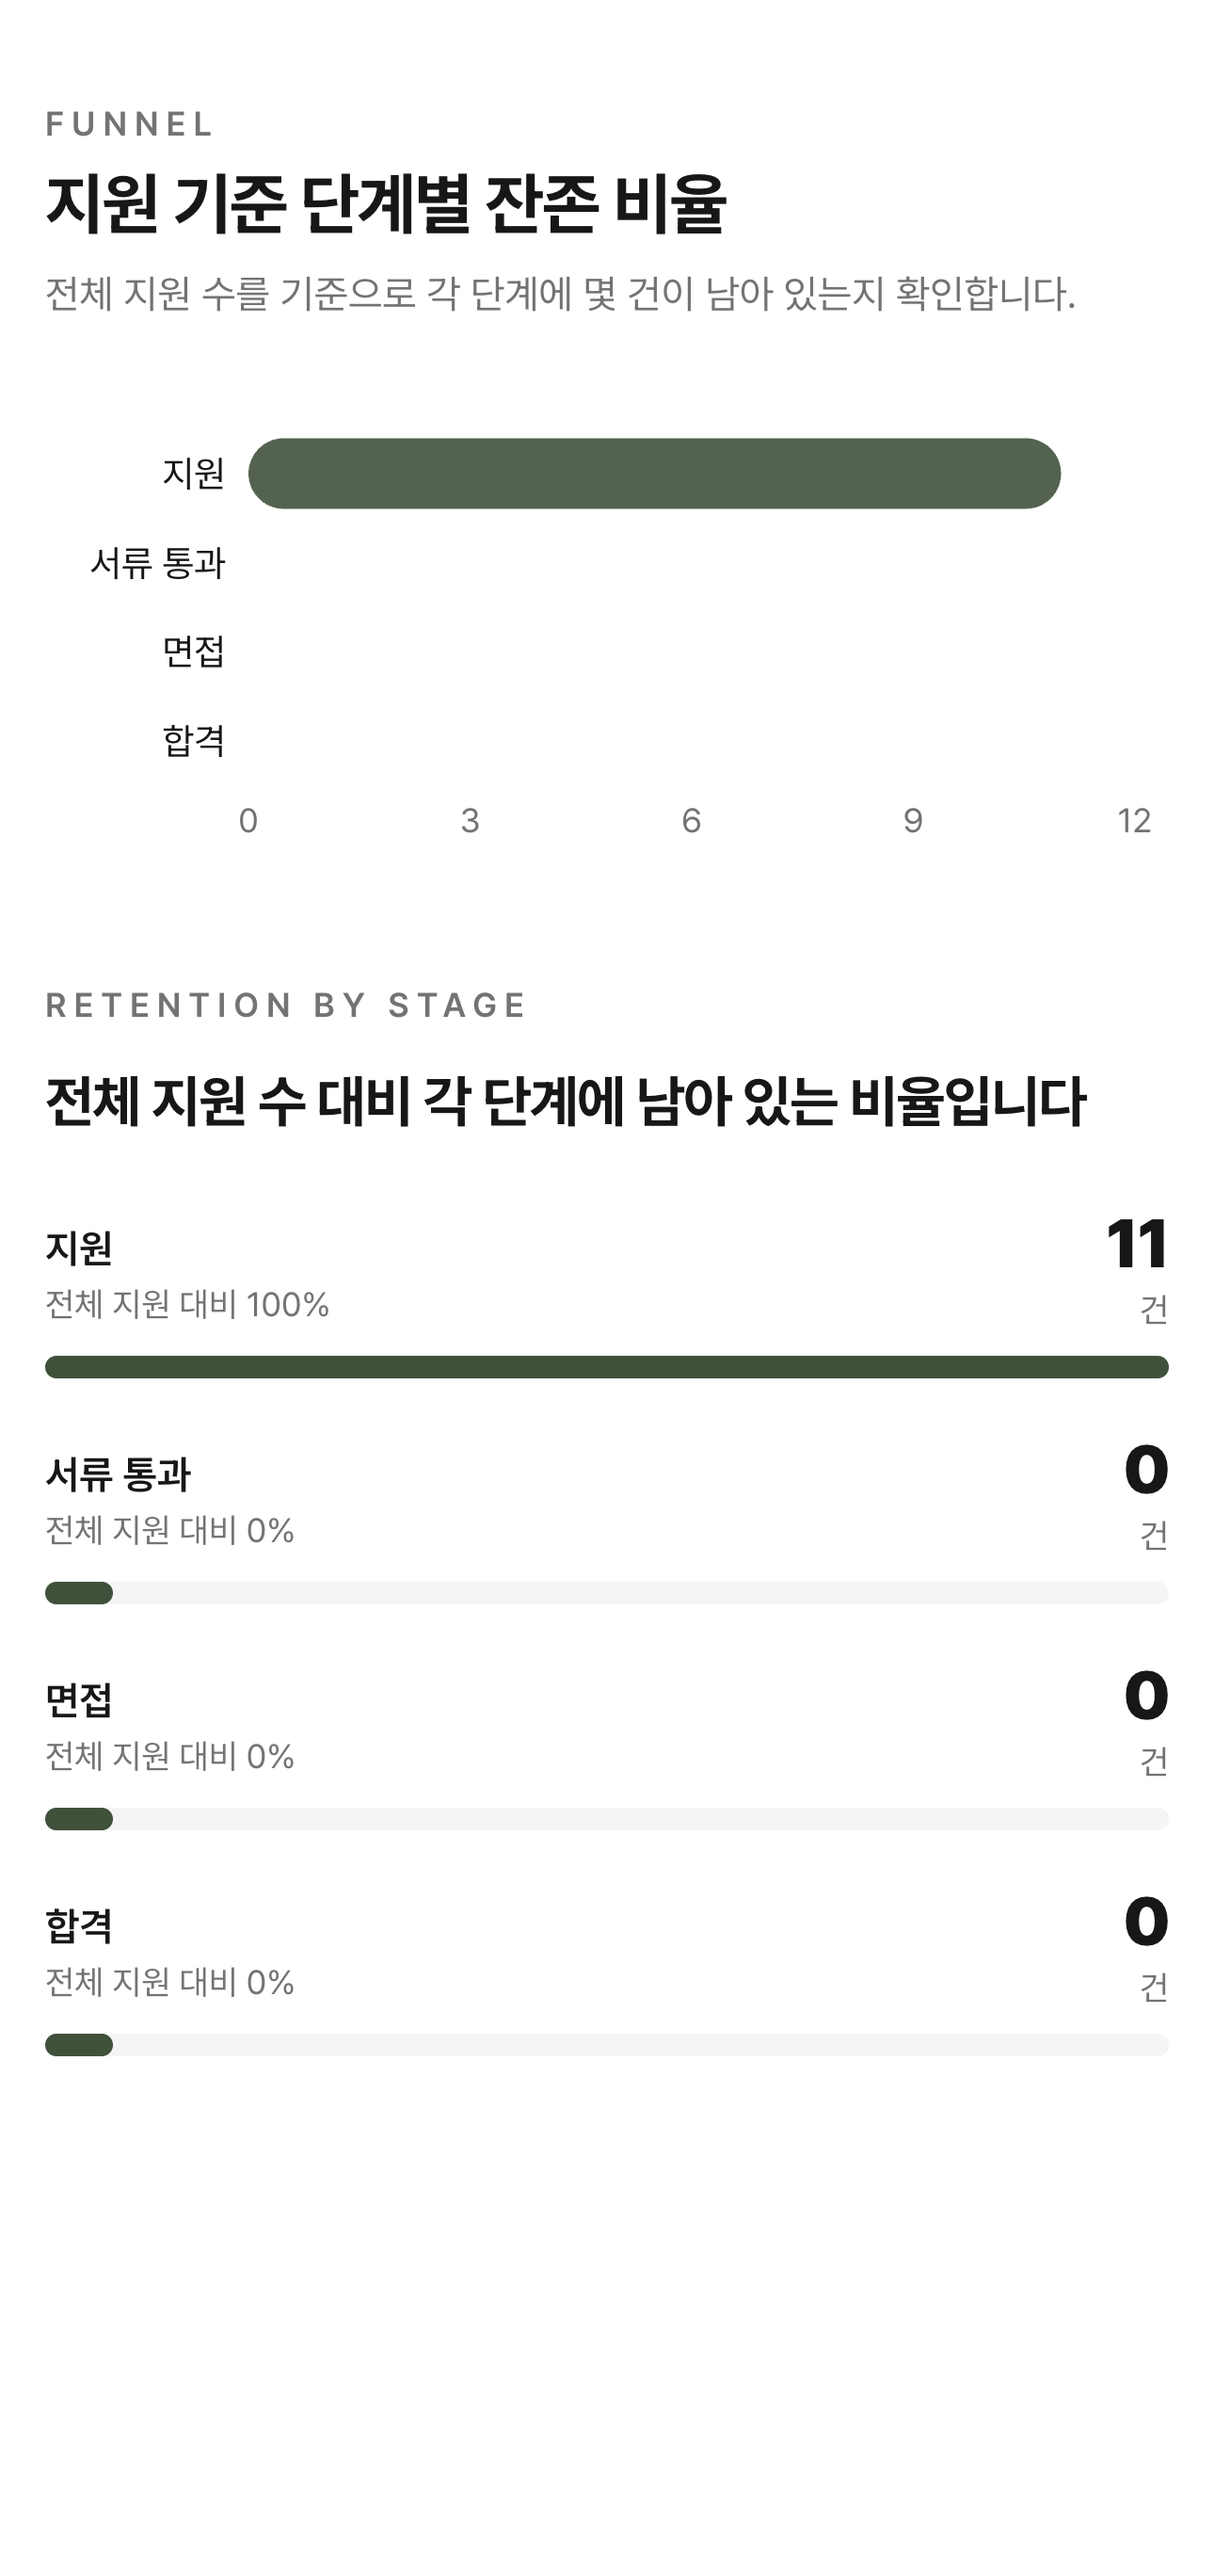
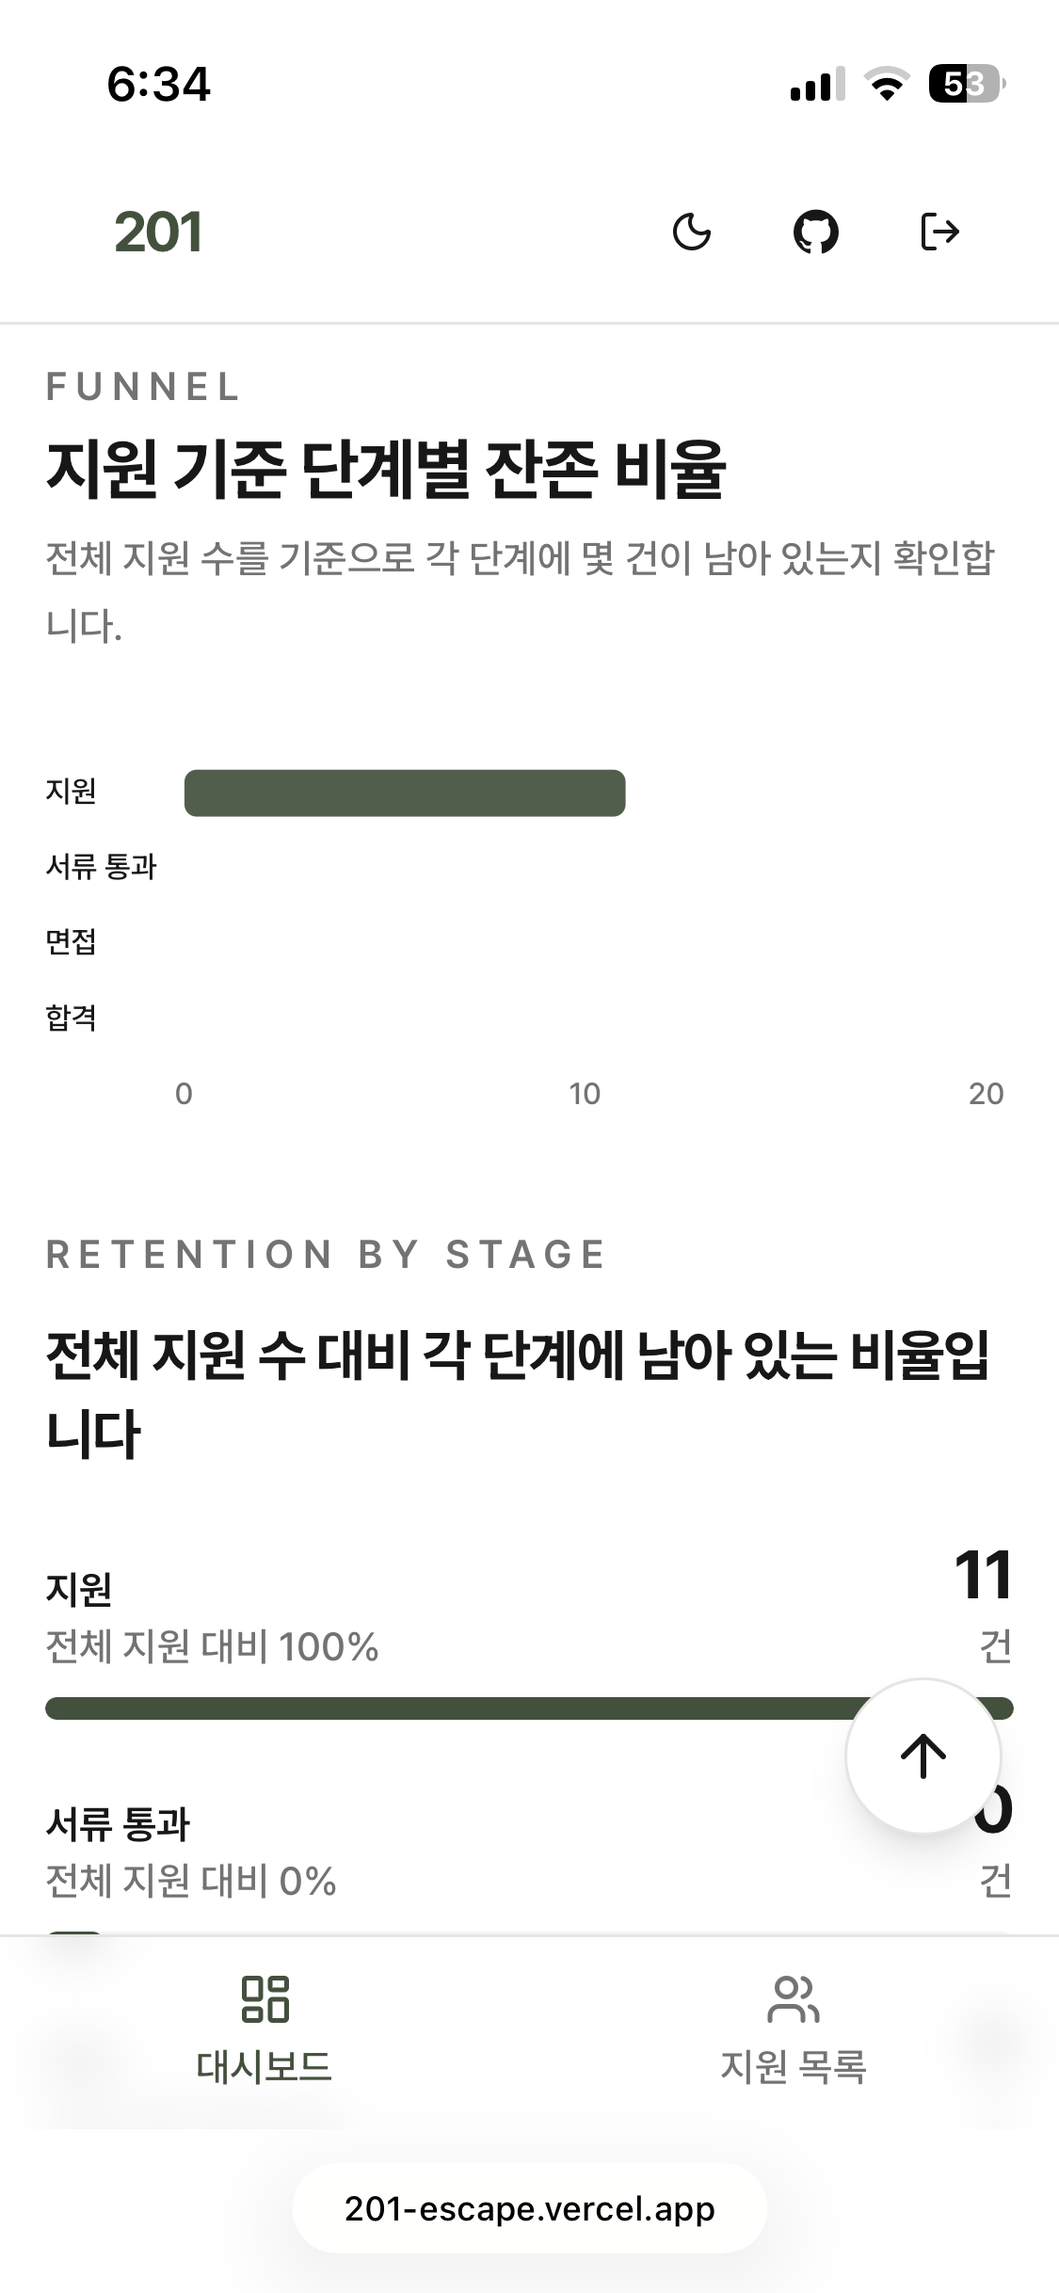
docs: README 사진 업데이트(#313)
- README 사진 업데이트

diff --git a/README.md b/README.md
@@ -40,49 +40,55 @@
 <table>
   <tr>
     <td align="center"><strong>KPI 요약</strong></td>
+    <td align="center"><strong>주요 비율</strong></td>
     <td align="center"><strong>단계별 퍼널</strong></td>
     <td align="center"><strong>월간 지원 추이</strong></td>
   </tr>
   <tr>
-    <td><img src="./docs/images/readme/dashboard_selected_kpis.png" alt="지원 완료 건수와 단계별 KPI를 보여주는 대시보드 화면" width="220" /></td>
+    <td><img src="./docs/images/readme/dashboard_kpis.png" alt="지원 완료 건수와 단계별 KPI 요약을 보여주는 대시보드 화면" width="220" /></td>
+    <td><img src="./docs/images/readme/dashboard_kpis2.png" alt="서류 통과율, 최종 합격률, 저장 공고 비중을 보여주는 핵심 비율 카드 화면" width="220" /></td>
     <td><img src="./docs/images/readme/dashboard_funnel.png" alt="지원 기준 단계별 잔존 비율을 보여주는 퍼널 화면" width="220" /></td>
-    <td><img src="./docs/images/readme/dashboard_monthly_trend.png" alt="최근 12개월 지원 추이와 요약 노트를 보여주는 대시보드 화면" width="220" /></td>
+    <td><img src="./docs/images/readme/dashboard_monthly_trend.png" alt="최근 12개월 지원 추이와 최근 흐름 메모를 보여주는 대시보드 화면" width="220" /></td>
   </tr>
 </table>
 
-지원 건수, 단계별 잔존 비율, 최근 월별 추이를 한 화면에서 확인할 수 있습니다.
+지원 건수, 핵심 전환율, 단계별 잔존 비율, 최근 월별 추이를 한 화면에서 확인할 수 있습니다.
 
-### 지원 목록과 빠른 추가
+### 지원 목록과 빠른 액션
 
 <table>
   <tr>
     <td align="center"><strong>지원 목록</strong></td>
-    <td align="center"><strong>상태 미리보기 바텀시트</strong></td>
+    <td align="center"><strong>검색</strong></td>
+    <td align="center"><strong>미리보기 시트</strong></td>
     <td align="center"><strong>공고 추가</strong></td>
   </tr>
   <tr>
-    <td><img src="./docs/images/readme/application_list.gif" alt="검색, 필터, 정렬이 포함된 지원 목록 화면" width="220" /></td>
-    <td><img src="./docs/images/readme/application_bottomsheet.gif" alt="지원 상태와 요약 정보를 보여주는 바텀시트 화면" width="220" /></td>
-    <td><img src="./docs/images/readme/application_add_application_bottomsheet.gif" alt="회사명, 포지션, 공고 URL을 입력하는 공고 추가 바텀시트 화면" width="220" /></td>
+    <td><img src="./docs/images/readme/application_list.png" alt="상태 탭과 정렬을 포함한 지원 목록 화면" width="220" /></td>
+    <td><img src="./docs/images/readme/application_search.gif" alt="회사명 검색으로 지원 목록을 빠르게 좁히는 화면" width="220" /></td>
+    <td><img src="./docs/images/readme/application_previewsheet.gif" alt="지원 상태와 핵심 정보를 미리보기 시트로 확인하는 화면" width="220" /></td>
+    <td><img src="./docs/images/readme/application_add_application.gif" alt="회사명, 포지션, 공고 URL을 입력해 새 공고를 추가하는 화면" width="220" /></td>
   </tr>
 </table>
 
-목록에서 상태별 필터링과 검색을 수행하고, FAB로 새 공고를 빠르게 추가할 수 있습니다.
+목록에서 상태별 탐색과 검색을 수행하고, 미리보기 시트 확인과 FAB 기반 공고 추가까지 빠르게 이어집니다.
 
-### 지원 상세와 면접 일정
+### 지원 상세와 후속 관리
 
 <table>
   <tr>
     <td align="center"><strong>상세 정보</strong></td>
-    <td align="center"><strong>면접 일정 / 공고 설명</strong></td>
+    <td align="center"><strong>면접 일정 추가</strong></td>
+    <td align="center"><strong>개인 메모 추가</strong></td>
   </tr>
   <tr>
     <td><img src="./docs/images/readme/application_detail.png" alt="지원 상태 변경과 기본 정보를 관리하는 지원 상세 화면" width="220" /></td>
-    <td><img src="./docs/images/readme/application_detail_interviewschedule.gif" alt="면접 일정과 공고 설명 영역을 관리하는 지원 상세 하단 화면" width="220" /></td>
+    <td><img src="./docs/images/readme/application_detail_add_interview.gif" alt="지원 상세 화면에서 면접 일정을 추가하는 흐름" width="220" /></td>
+    <td><img src="./docs/images/readme/application_detail_add_memo.gif" alt="지원 상세 화면에서 개인 메모를 남기는 흐름" width="220" /></td>
   </tr>
 </table>
 
-상세 페이지에서는 지원 단계 변경, 공고 원문 확인, 면접 일정 추가 및 수정, 메모 관리까지 한 흐름으로 이어집니다.
+상세 페이지에서는 지원 단계 확인, 면접 일정 추가, 메모 기록 등 후속 액션을 한 흐름에서 관리할 수 있습니다.
 
 ## 기술 스택
 
